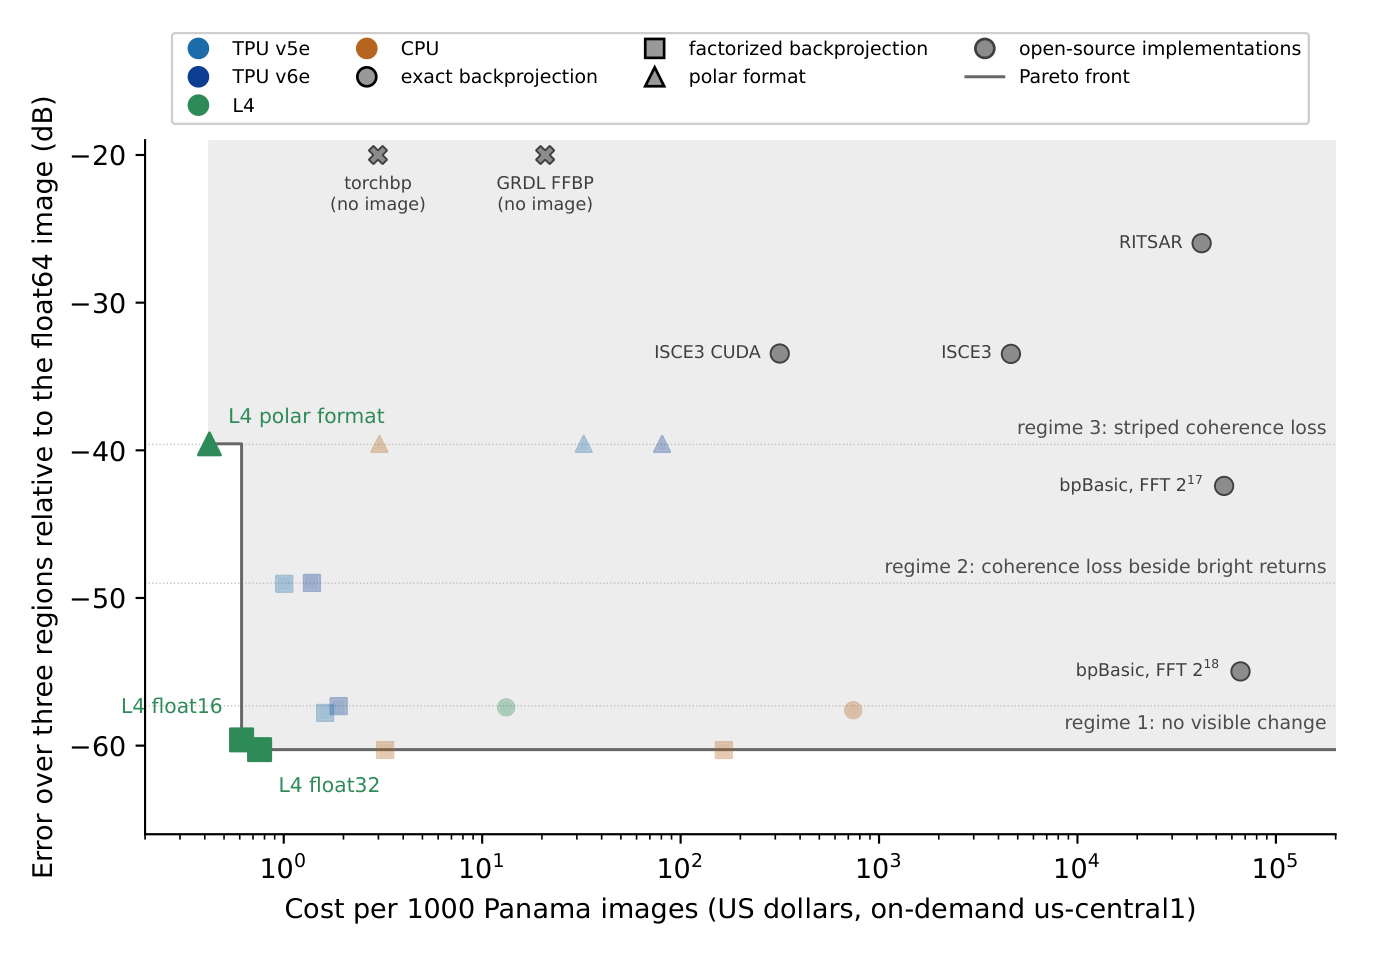
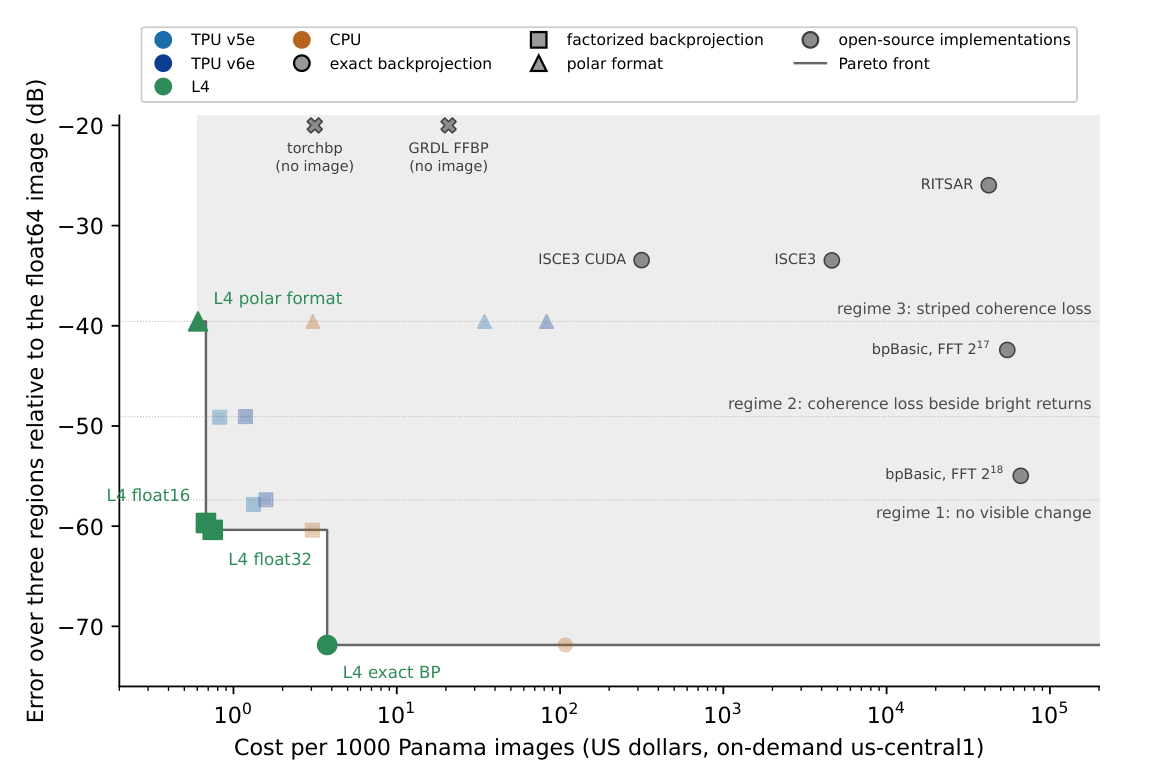
Docs: release 0.1.0 measurements (times, costs, errors, exact against factorized by size, memory fallbacks), figures from the release records

diff --git a/fastsar/exact.py b/fastsar/exact.py
@@ -24,9 +24,9 @@ oversampled, linear), cubic at upsample=4 measures -70 dB, at the reference's ow
 upsample=8 -57 dB. On simulated 128 x 128 pixel scenes from 0.5 to 20 km and at 600 km, cubic measures -67 to
 -68 dB against a float64 backprojection at 64 times oversampling.
 
-On an Nvidia L4 the CUDA kernel runs at about 83 billion pixel-pulse pairs per second, bound by the L1 cache's
+On an Nvidia L4 the CUDA kernel runs at about 87 billion pixel-pulse pairs per second, bound by the L1 cache's
 throughput for its data-dependent reads (86% of it, Nsight Compute), so it forms the 12,207 by 8,808 pixel, 15,186-pulse
-Panama image in about 20 s; factorized backprojection (ImageFormer) is faster beyond about 4096 by 4096 pixels and
+Panama image in about 19 s; factorized backprojection (ImageFormer) is faster beyond about 2048 by 2048 pixels and
 exact backprojection below.
 
 Backends: 'cuda' (CuPy kernel; pinned, overlapped upload), 'cpu' (C++ with OpenMP, vectorized over each tile's

diff --git a/docs/performance.md b/docs/performance.md
@@ -9,28 +9,29 @@ each), an Nvidia L4, and a c4d-highmem-16 CPU instance (AMD EPYC 9B45, 16 vCPUs 
 
 ## Time and cost per image
 
-The Umbra Panama image ([real-data.md](real-data.md#umbra-spotlight)) at float32-class accuracy (about -59.5 dB,
+The Umbra Panama image ([real-data.md](real-data.md#umbra-spotlight)) at float32-class accuracy (-57.8 to -60.0 dB,
 [precision.md](precision.md)), on-demand us-central1 prices of October 2026:
 
 | Device | Seconds per image | Dollars per 1000 images |
 |---|---|---|
-| TPU v6e (three-pass) | 3.1 | 1.89 |
-| TPU v5e (three-pass) | 5.6 | 1.62 |
-| L4 (float32) | 4.3 | 0.75 |
-| L4 (float16 storage, float32 accumulation) | 3.7 | 0.62 |
-| c4d-highmem-16 | 12.4 | 3.25 |
+| TPU v6e (three-pass) | 3.1 | 1.58 |
+| TPU v5e (three-pass) | 5.2 | 1.32 |
+| L4 (float32) | 3.8 | 0.75 |
+| L4 (float16 storage, float32 accumulation) | 3.5 | 0.68 |
+| c4d-highmem-16 | 11.3 | 3.04 |
 
-Cost is the hourly price divided by the throughput of back-to-back images, with uploads overlapping formation. The
-v6e is fastest. The L4, at about a quarter of the v6e's hourly price, is cheapest per image. Both rankings hold on
+Cost is the hourly price divided by the throughput of back-to-back images (on the TPUs the next history is staged
+while one forms). The v6e is fastest. The L4, at about a quarter of the v6e's hourly price, is cheapest per image. Both rankings hold on
 Melbourne and Iowa.
 
 ![Cost per 1000 Panama images against error for every FastSAR configuration and the open-source implementations](images/teaser.png)
 
-Single-pass on the TPUs takes 2.4 s (v6e) and 3.8 s (v5e) at -45.8 dB, $1.39 and $1.01 per 1000 images. Float16
-on the L4 and single-pass on the TPUs lower each device's cost by 18 to 38%. Polar format takes 2.4 s on the L4
-($0.42 per 1000) and 11.3 s on the c4d-highmem-16, at -32.1 dB. On the TPUs its final resampling, a scattered
-gather, adds about 94 s (v5e) and 104 s (v6e), for 98 and 106 s per image. The L4 draws 0.07 kWh per 1000 float32
-images (mean `nvidia-smi` power, host excluded).
+Single-pass on the TPUs takes 2.6 s (v6e) and 3.6 s (v5e) at -46.2 dB, $1.18 and $0.82 per 1000 images. Float16
+on the L4 and single-pass on the TPUs lower each device's cost by 9 to 38%. Polar format takes 3.0 s on the L4
+($0.61 per 1000) and 11.4 s on the c4d-highmem-16, at -32.1 dB. On the TPUs its resampling steps are gathers, which
+run on the vector unit: 103 s (v5e) and 110 s (v6e) per image. The L4 draws 0.07 kWh per 1000 float32 images (mean
+`nvidia-smi` power, host excluded). These are the release records of the study (FastSAR 0.1.0 release candidates,
+public API only).
 
 ## Large collections
 
@@ -39,10 +40,11 @@ follows. The CPU and CUDA backends do not copy them; the TPU backend copies the 
 
 - CPU: the first level reads a C-contiguous complex64 history in place. A group holds up to 8 first-level children
   within a quarter of the available host memory. When fewer than 4 fit, the first level runs in blocks of 2,048
-  pulses instead: 14.7 s against 12.4 s on Panama (19% slower). On a Capella spotlight, groups of 2 and 1 took
+  pulses instead, which was 19% slower on Panama in development. On a Capella spotlight, groups of 2 and 1 took
   58% and 140% longer than groups of 8.
-- CUDA: a host history whose device planes exceed half the free device memory streams through the first level in
-  blocks of 4,096 pulses.
+- CUDA: a host history is windowed and checked on the GPU as its blocks are uploaded, without a full complex copy
+  on the device; one whose device planes exceed half the free device memory streams through the first level in
+  blocks of 4,096 pulses instead.
 - TPU: the history is padded once per image for the first-level kernel. A level's pulse decimation is a dense
   matrix product up to 2^24 matrix entries; above that, the TPU applies the filter in banded blocks. A dense matrix
   for the 74,203-pulse spotlight would take 2.8 GB, and its cost grows as the square of the pulse count.
@@ -71,9 +73,10 @@ When memory is short, FastSAR falls back to a slower path instead of failing and
 
 Full speed keeps the phase history on the device and forms the first level in groups of 8 children (4 on a TPU).
 On a v6e, groups of 4 and 8 formed the 2025 Capella spotlight equally fast, and groups of 2 took 1% longer. On the
-L4 the same spotlight took 17.9 s in groups of 8. It took 2% longer in groups of 4 and 44% longer with the history
-streamed from host memory. The 2025 spotlight fits the L4's 24 GB at full speed; the 74,203-pulse 2024 spotlight
-does not. The number of first-level children carried together through the later levels (up to half the free
+L4 the same spotlight took 17.9 s in groups of 8 in development. It took 2% longer in groups of 4 and 44% longer
+with the history streamed from host memory. Full speed for it needs 23.3 GB, just above the 22.9 GB free on the L4,
+so the release forms it in groups of 4 (17.9 s); the 74,203-pulse 2024 spotlight needs 33.8 GB and runs in groups
+of 2. The number of first-level children carried together through the later levels (up to half the free
 memory) does not affect speed. Batches of 1, 2 and 4 formed that spotlight within 1% of each other, so FastSAR does
 not count a smaller batch as a fallback.
 
@@ -116,10 +119,10 @@ tests only.
 
 ## Where the time goes
 
-As a single JAX program (`backend='jax'`), the float32-class Panama image takes 5.3, 10.3, 15.0 and 217.4 s on the
-v6e, v5e, L4 and c4d-highmem-16. The kernels cut that by 1.7 to 1.8 times on the TPUs, 3.4 on the L4 and 17.6 on
-the CPU. Every kernel stage runs within 1.0 to 2.5 times a lower bound set by its limiting hardware unit, measured
-by microbenchmarks on the same device.
+On the c4d-highmem-16 the float32 Panama image takes 224 s as a single JAX program (`backend='jax'`) and 11.3 s
+with the C++ kernels. On the accelerators, in development and on the device, the JAX program took 4.6, 9.3 and
+13.7 s (v6e, v5e, L4) and the kernels 2.4, 4.6 and 3.5 s. In the profiled builds every kernel stage ran within 1.0
+to 2.5 times a lower bound set by its limiting hardware unit, measured by microbenchmarks on the same device.
 
 ![Time per first-level tile of each stage by implementation form on the TPU v6e and the L4](images/profile.png)
 
@@ -135,17 +138,19 @@ warm former, against the float64 reference:
 
 | Device | Cubic, `upsample=4` | Linear, `upsample=8` |
 |---|---|---|
-| L4 (g2-standard-4) | 18.3 s, -70.0 dB | 18.7 s, -56.9 dB |
-| c4d-highmem-16 | 396 s, -70.0 dB | 286 s, -56.9 dB |
+| L4 (g2-standard-4) | 18.7 s, -70.0 dB | 20.3 s, -56.9 dB |
+| c4d-highmem-16 | 403 s, -70.0 dB | 292 s, -56.9 dB |
 
-The CUDA kernel runs at about 83 billion pixel-pulse pairs per second on the L4, at 86% of the L1 cache's
-throughput for its data-dependent reads (Nsight Compute); staging the profiles in shared memory or reading sample
+The cubic error is at the limit to which the reference itself has converged. The CUDA kernel runs at about 87
+billion pixel-pulse pairs per second on the L4; in development it ran at 86% of the L1 cache's throughput for its
+data-dependent reads (Nsight Compute), and staging the profiles in shared memory or reading sample
 pairs as 16-byte words did not make it faster. The C++ kernel runs at about 4 billion per second on the
 c4d-highmem-16, limited by its vector gathers.
 
 Exact backprojection costs pulses times pixels, factorized backprojection about pixels times the logarithm of the
-pulse count plus a fixed cost of reading the history. On centered crops of the Panama image on an L4 (a g2-standard-8
-development instance), exact backprojection with cubic interpolation was faster up to 2048 by 2048 pixels (0.62 and
-1.12 s against 2.72 and 2.62 s for `ImageFormer`) and slower from 4096 by 4096 (3.92 against 3.16 s), and about 10 dB
-more accurate at every size. On the c4d-highmem-16 factorized backprojection was faster at every size from 1024 by
-1024 pixels.
+pulse count plus a fixed cost of reading the history. On square grids at the center of the Panama scene (all 15,186
+pulses, warm formers) on an L4 (g2-standard-4), exact backprojection with cubic interpolation took 0.48, 0.94, 2.99
+and 11.6 s at 1024, 2048, 4096 and 8192 pixels on a side, against 0.98, 0.94, 1.39 and 2.60 s for `ImageFormer`:
+the two meet near 2048 by 2048. On the c4d-highmem-16 factorized backprojection was faster at every size (5.4 against
+2.6 s at 1024 pixels, 250 against 7.2 s at 8192). On the full scenes exact backprojection is 10 to 13 dB more
+accurate. Records: `results/v3/crossover` in sar-accel-study.

diff --git a/docs/comparison.md b/docs/comparison.md
@@ -7,8 +7,8 @@ antenna positions. Two produced no usable image.
 Errors are against float64 exact backprojection over the lock, port and ship regions of [precision.md](precision.md),
 worst to best; ISCE3 was scored on three 256 by 256 patches of its own grid after removal of a common linear phase
 ramp. Times are for the full image, host to host; FastSAR's factorized rows use a warm former. Estimates (est.) scale
-one region's time by the pixel count and overstate it: the same estimate for FastSAR's exact backprojection gives 2.4
-h against 46 min measured.
+one region's time by the pixel count and overstate it: the same estimate for FastSAR's exact backprojection gives 17
+min against 403 s measured.
 
 | CPU (c4d-highmem-16) | Error (dB) | Time |
 |---|---|---|
@@ -17,17 +17,17 @@ h against 46 min measured.
 | AFRL `bpBasic` (Octave), FFT length 2^18 | -52.9 to -55.4 | 69 h (est.) |
 | ISCE3 `backproject`, 16 threads | -31.5 to -54.9 | 4.8 h (est.) |
 | GRDL, factorized | no image | 77.5 s |
-| FastSAR, exact backprojection, 8x | -54.9 to -58.7 | 46 min |
-| FastSAR, factorized, float32 | -55.8 to -61.2 | 12.4 s |
+| FastSAR, exact backprojection, cubic, 4x | -59.9 to -73.8 | 403 s |
+| FastSAR, factorized, float32 | -56.8 to -61.2 | 11.3 s |
 
 | GPU (Nvidia L4) | Error (dB) | Time |
 |---|---|---|
 | ISCE3 `backproject`, CUDA | -31.5 to -52.2 | 27 min (est.) |
 | torchbp, exact | no image | 16.0 s |
 | torchbp, factorized | out of memory | |
-| FastSAR, exact backprojection, 8x | -54.7 to -58.3 | 67 s |
-| FastSAR, factorized, float32 | -55.7 to -61.2 | 4.3 s |
-| FastSAR, factorized, float16 | -54.6 to -60.4 | 3.7 s |
+| FastSAR, exact backprojection, cubic, 4x | -59.9 to -73.8 | 18.7 s |
+| FastSAR, factorized, float32 | -56.7 to -61.1 | 3.8 s |
+| FastSAR, factorized, float16 | -55.3 to -60.4 | 3.5 s |
 
 - RITSAR: a `linspace` range axis too coarse by one part in N_fft - 1, and a frequency axis that assumes an even
   sample count (the collection has 14,399).
@@ -39,8 +39,9 @@ h against 46 min measured.
 - GRDL's factorized backprojection, documented as a stripmap algorithm, formed no focused image with default
   parameters.
 
-With the algorithm held fixed, FastSAR's exact backprojection is 6 times faster than ISCE3's estimated time on the
-CPU and 24 times faster on the L4. The factorized algorithm cuts the CPU time by a further factor of 220.
+With the algorithm held fixed, FastSAR's exact backprojection is 43 times faster than ISCE3's estimated time on the
+CPU and 86 times faster on the L4, with lower errors in every region. The factorized algorithm cuts the CPU time by a
+further factor of 36.
 
 On the same CPU, NGA's `pfa_mem` (Octave) forms a polar-format image in 44 s and GRDL's polar format in 24.5 s.
 Neither corrects the planar-wavefront displacement. Their log-amplitude correlations with the reference are 0.80 to

diff --git a/docs/precision.md b/docs/precision.md
@@ -15,26 +15,28 @@ of the difference over the whole image.
 
 | Configuration | Error (dB) |
 |---|---|
-| CPU, float32 | -59.6 |
-| Nvidia L4, float32 | -59.5 |
-| Nvidia L4, float16 | -58.6 |
-| TPU v5e, three-pass | -57.6 |
-| TPU v6e, three-pass | -57.5 |
-| TPU v5e and v6e, single-pass | -45.8 |
+| Exact backprojection, cubic (CPU and L4) | -70.0 |
+| Exact backprojection, linear, 8x (CPU and L4) | -56.9 |
+| CPU, float32 | -60.0 |
+| Nvidia L4, float32 | -59.9 |
+| Nvidia L4, float16 | -58.9 |
+| TPU v5e, three-pass | -57.9 |
+| TPU v6e, three-pass | -57.8 |
+| TPU v5e and v6e, single-pass | -46.2 |
 | Polar format with the displacement correction (all devices) | -32.1 |
 
 - Float32-class images (float32 on CPU and L4, three-pass on TPU) leave the amplitude visually unchanged; their 5
-  by 5 coherence with the reference exceeds 0.999 even at its 0.1 percentile. The L4 and CPU images are within
-  0.1 dB of a float64 factorized image. The TPU kernels compute the last level's geometry in float32, the probable
-  cause of their 2 dB larger error.
-- The single-pass TPU setting adds 12 dB. The amplitude is unchanged, but the phase deviates by up to 86 degrees beside
-  bright returns (99th percentile 1.0 degree). Use three-pass for interferometry.
+  by 5 coherence with the reference exceeds 0.999 even at its 0.1 percentile. The TPU kernels compute the last
+  level's geometry in float32, the probable cause of their error being up to 2.2 dB larger.
+- The single-pass TPU setting adds 12 dB. The amplitude is unchanged, but the phase deviates by up to 106 degrees beside
+  bright returns (99th percentile 1.1 degrees). Use three-pass for interferometry.
 - Polar format shows striped coherence below 0.99; its residual grows from -40 dB at the scene center to -30 dB in
   the outer quarter ([algorithms.md](algorithms.md#polar-format)).
-- Exact backprojection at the default eightfold oversampling is 0.8 to 4.9 dB farther from the reference than the
-  float32 factorized image on the three regions below; range interpolation sets its error.
+- Exact backprojection with its default cubic interpolation is 10.1 to 13.1 dB more accurate than the float32
+  factorized image on the three Umbra collections, at the limit to which the reference has converged; with linear
+  interpolation at 8 times oversampling, range interpolation sets its error.
 
-On Melbourne and Iowa the factorized configurations are within 1.4 dB of the Panama values.
+On Melbourne and Iowa the factorized configurations are within 1.1 dB of the Panama values.
 
 ![Four Panama regions formed by each configuration, with coherence maps against the reference](images/zoom_panama.png)
 

diff --git a/README.md b/README.md
@@ -9,9 +9,9 @@ backprojection, and provides autofocus, interferometry, geolocation, map GeoTIFF
 
 ![FastSAR image of the Panama Canal's Pacific entrance from an Umbra spotlight collection](https://raw.githubusercontent.com/saulpingerman/FastSAR/v0.1.0/docs/images/hero_panama.jpg)
 
-*Panama Canal, Pacific entrance (Umbra open data, 2023-07-18): 12,207 by 8,808 pixels in 4.3 s on an Nvidia L4
-(warm former, transfers included; float32, -59.5 dB against float64 exact backprojection), downsampled. A
-c4d-highmem-16 CPU instance (16 vCPUs, 8 cores) takes 12.4 s. ISCE3, the fastest open-source code that forms this
+*Panama Canal, Pacific entrance (Umbra open data, 2023-07-18): 12,207 by 8,808 pixels in 3.8 s on an Nvidia L4
+(warm former, transfers included; float32, -59.9 dB against float64 exact backprojection), downsampled. A
+c4d-highmem-16 CPU instance (16 vCPUs, 8 cores) takes 11.3 s. ISCE3, the fastest open-source code that forms this
 collection, would take an estimated 4.8 h on that CPU and 27 min on the L4.*
 
 ![Cost per 1000 images against error for FastSAR and five open-source implementations](https://raw.githubusercontent.com/saulpingerman/FastSAR/v0.1.0/docs/images/teaser.png)

diff --git a/docs/real-data.md b/docs/real-data.md
@@ -83,8 +83,8 @@ Two Capella Open Data collections were compared with the vendor's SICD:
 
 - Stripmap (2021-11-12, 39,899 pulses of 6,003 samples, scene reference point moving 27.5 km):
   [`examples/form_capella_stripmap.py`](../examples/form_capella_stripmap.py) forms a 512 by 512 crop of the
-  vendor's range / zero-Doppler grid by the patch mosaic (165 patches of about 10,300 pulses, 398 s on four CPU
-  threads). The amplitude images correlate at 0.96.
+  vendor's range / zero-Doppler grid by the patch mosaic (165 patches of about 10,300 pulses; 12 s on the
+  c4d-highmem-16 with release 0.1.0). The amplitude images correlate at 0.993.
 - Spotlight (2024-10-04, 74,203 pulses of 17,282 samples): exact backprojection onto the vendor's pixels correlates
   with the vendor's polar-format image at 0.78 at the scene center and 0.54 off center, where the vendor's image
   carries the polar-format distortion.
